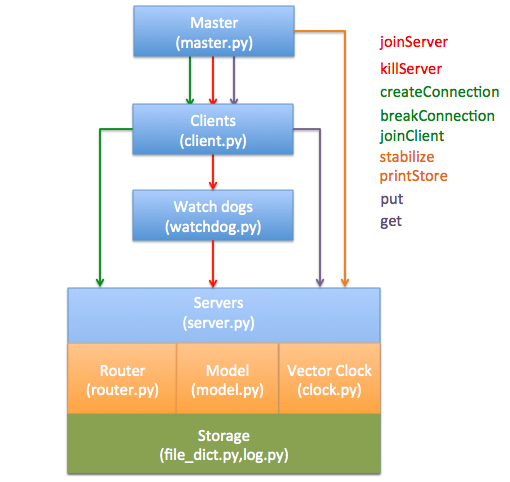
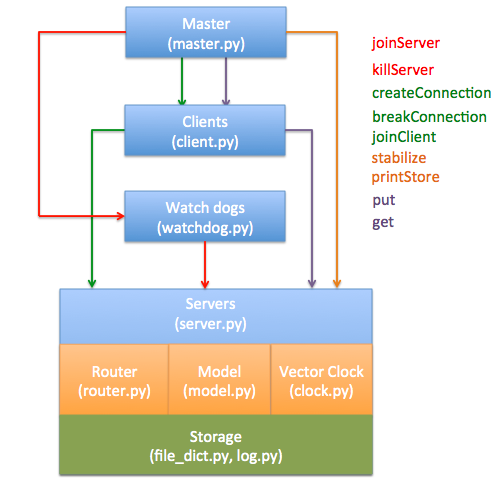
Update README

Changed region(s): [[0.0606, 0.0, 0.7576, 0.9959], [0.7273, 0.0622, 1.0, 0.3734], [0.7273, 0.4046, 0.8182, 0.4979]]

diff --git a/README.md b/README.md
@@ -16,12 +16,59 @@ In addition, we provide two session guarantees:
 
 ## Implementation
 
-The architecture of our implementation is shown in [architecture graph][architecture] below. 
+The architecture of our implementation is shown in image below. In the picture, the modules
+of the code (i.e., *Master*, *Clients*) are represented by the boxes. The actual source code files
+are listed under the module names inside parentheses. The commands are associated with colors of the modules.
+For instance, the "Put" command is supported by *Clients* module (i.e., "client.py") and 
+*Servers* module (i.e., "server.py"). The semantics of the commands are shown in the table following afterwards. 
 
 ![architecture](img/architecture.png)
 
+| Command                          | Summary                                                                                                                                                                                                                                                                              |
+|----------------------------------|--------------------------------------------------------------------------------------------------------------------------------------------------------------------------------------------------------------------------------------------------------------------------------------|
+| joinServer [id]                  | This command starts a server and will connect this server to all other servers in the system                                                                                                                                                                                         |
+| killServer [id]                  | This command immediately kills a server. It should block until the server is stopped.                                                                                                                                                                                                |
+| joinClient [clientId] [serverId] | This command will start a client and connect the client to the specified server.                                                                                                                                                                                                     |
+| breakConnection [id1] [id2]      | This command will break the connection between a client and a server or between two servers.                                                                                                                                                                                         |
+| createConnection [id1] [id2]     | This command will create or restore the connection between a client and a server or between two servers.                                                                                                                                                                             |
+| stabilize                        | This command will block until all values are able to propagate to all connected servers. This should block for a max of 5 seconds for a system with 5 servers.                                                                                                                       |
+| printStore [id]                  | This command will print out a server’s key-value store in the format described below.                                                                                                                                                                                                |
+| put [clientId] [key] [value]     | This command will tell a client to associate the given value with the key. This command should block until the client communicates with one server.                                                                                                                                  |
+| get [clientId] [key]             | This command will tell a client to attempt to get the key associated with the given value. The value or error returned should be printed to standard-out in the format specified below. This command should block until the client communicates with a server and the master script. |
+
+The functionality of each module is following:
+
+- *Master*: a master program which will provide a programmatic interface with the key-value store.
+The master program will keep track of and will also send command messages to all servers and
+clients. More specifically, the master program will read a sequence of newline delineated
+commands from standard input ending with EOF which will interact with the key-value store and,
+when instructed to, will display output from the playlist to standard out.
+
+- *Clients*: clients program that invoked by the mater program and perform corresponding commands.
+All the commands are implemented using RPC calls. In addition, clients store the vector clock of the 
+"Put" command to support *Read Your Writes*.
+
+- *Watch dogs*: each server is guarded by a watch dog which takes command from the master to join the server
+he guarded to the network or kill the server.
+
+- *Router*: each server gets a router which is used to find all the available servers that the current
+server can reach.
+
+- *Servers*: server works as a RPC server to the clients and works with *Model* to implement the gossip
+proctol (i.e., send message and receive message to other servers)
+
+- *Model*: model implements the actual dirty work of the command. Specifically, the module implements
+what string to return on "printStore", what to do on "put", and what to return to the requesters on "get".
+
+- *Vector Clock*: as name suggested, the module implements the vector clock and decide the "happen-before"
+relationship between two events. 
+
+- *Storage*: the storage layer writes the log and the key-value pairs onto the disk. The storage is used
+when one server is killed and revived later.
 
 ## Protocol
+
+
 
 
 ## Tests and Performance
